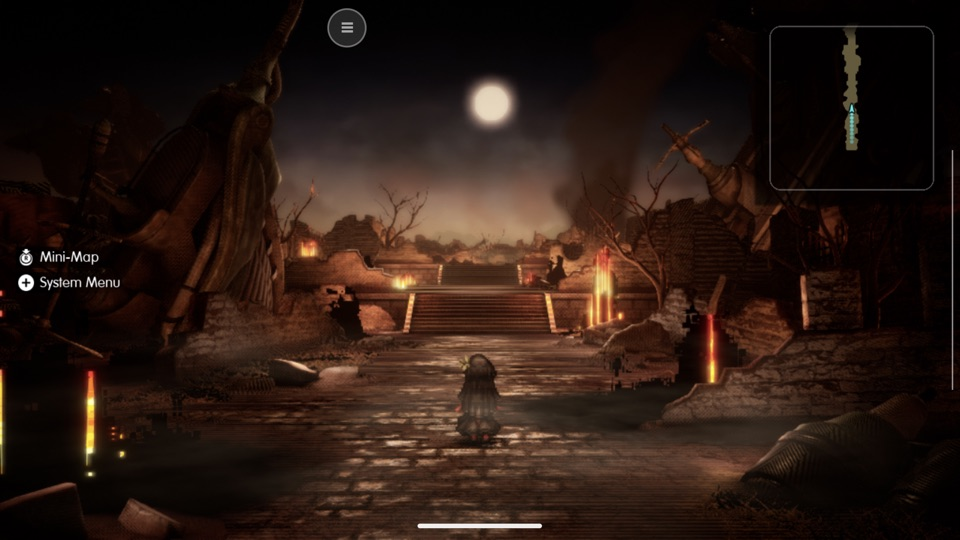
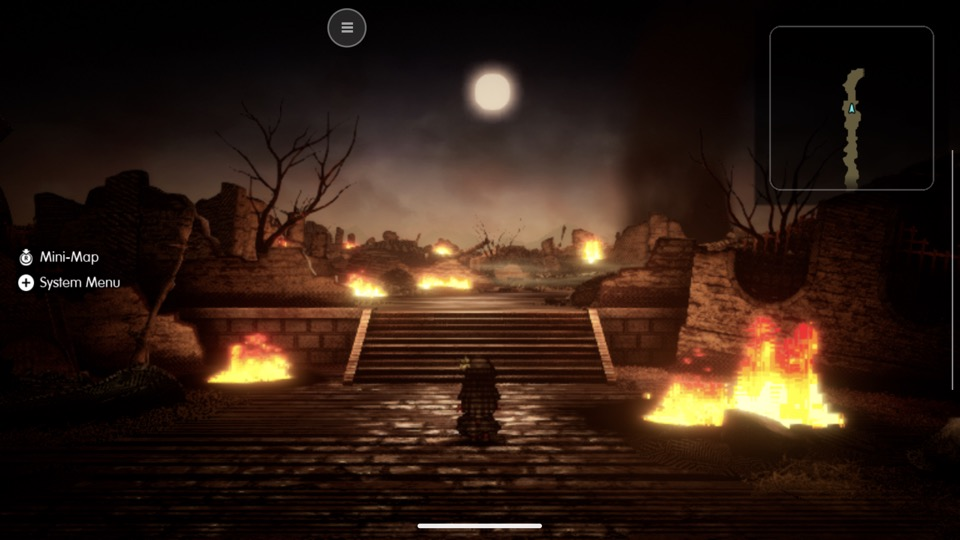
Game Status catches up with main: Ocarina of Time's water patches resolved, Mario Kart World's races on a Pixel 9 Pro XL, and newer captures for four games
Some rows and captures had fallen behind what merged on 2026-11-11, so a player reading the table saw fixed faults as open and pictures of states that no longer hold.

- Ocarina of Time's row still listed "pale flat water patches on Adreno" as open. #315 found them to be undrawn terrain tiles and fixed them, and the game's note already moved the item to "Found on this game".
- Mario Kart World's row didn't name the Pixel 9 Pro XL, which its note covers since #298: with the virtual pool fix the Pixel ran 4 races of 4 out, at about 10 fps (q209's measurement), and the S25 Edge two more.
- Let's Go's row didn't mention the dark band over Viridian Forest's lower third on the Z Flip 7, which its note records as open.
- Captures: Final Fantasy Resonance's showed the first field with its flames missing at 42 fps; the new one (Odin 2, chain 6, q199) has them drawn. Animal Crossing's was a scripted run from a downloaded save; the new one is the welcome party from the hand-played new game (Odin 2, q206). Ocarina of Time's was the title with its movie black; the new one is Kokiri Forest on the Galaxy Z Fold 8 with the terrain fix (q216). Mario Kart World's was the Odin 2's world map from 2026-11-08; the new one is a race at Mario Bros. Circuit on the OnePlus Pad 3 with Qualcomm's driver, the row's main result. All four are 960x540 JPEGs like the others, cropped to the game's picture.
[…]

diff --git a/scripts/build_android_from_nsp.py b/scripts/build_android_from_nsp.py
@@ -59,17 +59,19 @@ BUILD_TOOLS, PLATFORM = '36.0.0', 'android-35'   # build_apk.py's defaults
 # one needs no other build. Built beside the loader, and kept with it in the library
 VK_DRIVER_LIBS = ('libadrenotools.so', 'libhook_impl.so', 'libmain_hook.so')
 # Games played on an Android device: the rows of the README's Game Status whose tier is Playable – minor issues, Playable – major issues or In-game from a run
-# on current code, with a profile, kept in step with that table. The desktop app shows the others as not played there yet. Left out: In-game, blocked (Frostpunk,
-# Ocarina of Time) and Menus (Mario Kart World), and the rows from before the nxnative merge (†: Super Mario Bros. Wonder, Super Mario 3D World + Bowser's Fury),
-# which current code hasn't run
+# on current code, with a profile, kept in step with that table. The desktop app shows the others as not played there yet. Left out: In-game, blocked (Mario Kart
+# World, Ocarina of Time), and the rows from before the nxnative merge (†: Super Mario Bros. Wonder, Super Mario 3D World + Bowser's Fury), which current code
+# hasn't run
 ANDROID_TESTED = {
     '01008DB008C2C000',   # Pokémon Shield (Playable – minor issues through Route 2 into Professor Magnolia's house)
-    '010027400CDC6000',   # Divinity: Original Sin 2 - Definitive Edition (Playable – major issues through the first combat)
+    '010027400CDC6000',   # Divinity: Original Sin 2 - Definitive Edition (Playable – minor issues through the second fight below deck)
     '010003F003A34000',   # Pokémon: Let's Go, Pikachu! (Playable – minor issues through the rival's first battle)
     '0100000011D90000',   # Pokémon Brilliant Diamond (Playable – minor issues through Lake Verity's first battle)
     '0100DCD01525A000',   # Persona 3 Portable (Playable – minor issues through the first battle)
     '01006F8002326000',   # Animal Crossing: New Horizons (Playable – major issues through the first night)
     '0100000000010000',   # Super Mario Odyssey
+    '0100B1C0249B4000',   # Frostpunk (Playable – major issues through day 1 into the first night)
+    '0100152000022000',   # Mario Kart 8 Deluxe (Playable – minor issues through the first 50cc race)
     '01006A800016E000',   # Super Smash Bros. Ultimate
     '01006BB00C6F0000',   # The Legend of Zelda: Link's Awakening
     '01002DA013484000',   # The Legend of Zelda: Skyward Sword HD

diff --git a/README.md b/README.md
@@ -141,7 +141,7 @@ phone, DroidPlay's on-screen controls are drawn over the game.
 <table>
 <tr>
 <td align="center" valign="top" width="33%"><img src="docs/images/android/pokemon-brilliant-diamond-odin-2.jpg" width="256" alt="Pokémon Brilliant Diamond in Eterna City on an Ayn Odin 2"><br><small><b><a href="dm/games/0100000011D90000/README.md">Pokémon Brilliant Diamond</a></b><br>Ayn Odin 2: Eterna City, 60 fps</small></td>
-<td align="center" valign="top" width="33%"><img src="docs/images/android/animal-crossing-new-horizons-odin-2.jpg" width="256" alt="Animal Crossing: New Horizons outside the player's house on an Ayn Odin 2"><br><small><b><a href="dm/games/01006F8002326000/README.md">Animal Crossing: New Horizons</a></b><br>Ayn Odin 2: outside the player's house, 30 fps</small></td>
+<td align="center" valign="top" width="33%"><img src="docs/images/android/animal-crossing-new-horizons-odin-2.jpg" width="256" alt="Animal Crossing: New Horizons on an Ayn Odin 2: the first evening's welcome party, the player at the campfire with Tom Nook, Timmy, Tommy and two islanders"><br><small><b><a href="dm/games/01006F8002326000/README.md">Animal Crossing: New Horizons</a></b><br>Ayn Odin 2: the welcome party on the first evening, 30 fps</small></td>
 <td align="center" valign="top" width="33%"><img src="docs/images/android/super-mario-odyssey-retroid-pocket-5.jpg" width="256" alt="Super Mario Odyssey's opening cutscene on a Retroid Pocket 5"><br><small><b><a href="dm/games/0100000000010000/README.md">Super Mario Odyssey</a></b><br>Retroid Pocket 5: the opening cutscene, 59 fps</small></td>
 </tr>
 <tr>
@@ -150,17 +150,17 @@ phone, DroidPlay's on-screen controls are drawn over the game.
 <td align="center" valign="top" width="33%"><img src="docs/images/android/zelda-skyward-sword-hd-odin-2.jpg" width="256" alt="The Legend of Zelda: Skyward Sword HD in Skyloft's plaza on an Ayn Odin 2, Link at the bird statue"><br><small><b><a href="dm/games/01002DA013484000/README.md">The Legend of Zelda: Skyward Sword HD</a></b><br>Ayn Odin 2: Skyloft at 60 fps</small></td>
 </tr>
 <tr>
-<td align="center" valign="top" width="33%"><img src="docs/images/android/final-fantasy-resonance-odin-2.jpg" width="256" alt="Final Fantasy Resonance's first field at night on an Ayn Odin 2, its flames missing"><br><small><b><a href="dm/games/0100606026F12000/README.md">Final Fantasy Resonance</a></b><br>Ayn Odin 2: the first field, 42 fps</small></td>
+<td align="center" valign="top" width="33%"><img src="docs/images/android/final-fantasy-resonance-odin-2.jpg" width="256" alt="Final Fantasy Resonance's first field at night on an Ayn Odin 2, its flames drawn along the road"><br><small><b><a href="dm/games/0100606026F12000/README.md">Final Fantasy Resonance</a></b><br>Ayn Odin 2: the first field, its flames drawn, 52 fps</small></td>
 <td align="center" valign="top" width="33%"><img src="docs/images/android/pokemon-shield-galaxy-s25-edge.jpg" width="256" alt="Pokémon Shield on a Samsung Galaxy S25 Edge: the player at the front door of the house in Postwick, under the on-screen controls"><br><small><b><a href="dm/games/01008DB008C2C000/README.md">Pokémon Shield</a></b><br>Samsung Galaxy S25 Edge: outside the player's house in Postwick, 30 fps</small></td>
 <td align="center" valign="top" width="33%"><img src="docs/images/android/frostpunk-galaxy-s25-edge.jpg" width="256" alt="Frostpunk's city on a Samsung Galaxy S25 Edge: the Generator in the crater and the wreckage beside it, on the snow"><br><small><b><a href="dm/games/0100B1C0249B4000/README.md">Frostpunk</a></b><br>Samsung Galaxy S25 Edge: the city, 30 fps</small></td>
 </tr>
 <tr>
 <td align="center" valign="top" width="33%"><img src="docs/images/android/divinity-original-sin-2-odin-2.jpg" width="256" alt="Divinity: Original Sin 2 on an Ayn Odin 2: the player's character in the Merryweather's hold"><br><small><b><a href="dm/games/010027400CDC6000/README.md">Divinity: Original Sin 2 - Definitive Edition</a></b><br>Ayn Odin 2: the Merryweather's hold, 30 fps</small></td>
 <td align="center" valign="top" width="33%"><img src="docs/images/android/zelda-breath-of-the-wild-odin-2.jpg" width="256" alt="The Legend of Zelda: Breath of the Wild on an Ayn Odin 2: Link in the Shrine of Resurrection"><br><small><b><a href="dm/games/01007EF00011E000/README.md">The Legend of Zelda: Breath of the Wild</a></b><br>Ayn Odin 2: the Shrine of Resurrection, 30 fps</small></td>
-<td align="center" valign="top" width="33%"><img src="docs/images/android/mario-kart-world-odin-2.jpg" width="256" alt="Mario Kart World's world map on an Ayn Odin 2"><br><small><b><a href="dm/games/0400C3F00006E000/README.md">Mario Kart World</a></b><br>Ayn Odin 2: the world map, about 55 fps</small></td>
+<td align="center" valign="top" width="33%"><img src="docs/images/android/mario-kart-world-oneplus-pad-3.jpg" width="256" alt="Mario Kart World on a OnePlus Pad 3: Mario in seventh place on the first lap at Mario Bros. Circuit, the track's surface untextured, under the on-screen controls"><br><small><b><a href="dm/games/0400C3F00006E000/README.md">Mario Kart World</a></b><br>OnePlus Pad 3: a race at Mario Bros. Circuit, 15–21 fps</small></td>
 </tr>
 <tr>
-<td align="center" valign="top" width="33%"><img src="docs/images/android/zelda-ocarina-of-time-galaxy-z-fold-8.jpg" width="256" alt="The Legend of Zelda: Ocarina of Time's title screen on a Samsung Galaxy Z Fold 8's cover display, the movie behind the logo black"><br><small><b><a href="dm/games/0400486024DEC000/README.md">The Legend of Zelda: Ocarina of Time</a></b><br>Samsung Galaxy Z Fold 8: the title, about 30 fps</small></td>
+<td align="center" valign="top" width="33%"><img src="docs/images/android/zelda-ocarina-of-time-galaxy-z-fold-8.jpg" width="256" alt="The Legend of Zelda: Ocarina of Time on a Samsung Galaxy Z Fold 8: young Link on the path through Kokiri Forest with Navi, under the on-screen controls"><br><small><b><a href="dm/games/0400486024DEC000/README.md">The Legend of Zelda: Ocarina of Time</a></b><br>Samsung Galaxy Z Fold 8: Kokiri Forest, 15–17 fps</small></td>
 <td align="center" valign="top" width="33%"><img src="docs/images/android/mario-kart-8-deluxe-pixel-9-pro-xl.jpg" width="256" alt="Mario Kart 8 Deluxe on a Google Pixel 9 Pro XL: Mario in first place on the second lap of Mario Kart Stadium, under the on-screen controls"><br><small><b><a href="dm/games/0100152000022000/README.md">Mario Kart 8 Deluxe</a></b><br>Google Pixel 9 Pro XL: Mario Kart Stadium, 60 fps</small></td>
 <td></td>
 </tr>
@@ -196,7 +196,7 @@ and what has not been tried.
 | Final Fantasy Resonance 1.0.1 | Ayn Odin 2, OnePlus Pad 3, Samsung Galaxy S25 Edge, Google Pixel 9 Pro XL | Playable – major issues through a new game's opening, the first field and its first three battles: on the Ayn Odin 2, played by hand from a new game, the field's flames drawn since `ANDROID_CHAIN` 6, at a median 52 fps on chain 6 (43–60 in 30 s windows), with sound, and the autosave loaded by Continue after a cold start ([its note](dm/games/0100606026F12000/README.md#android-a-new-game-by-hand-on-the-odin-2)). Issues: the frame rate, under 95% of the 60 target; the flames nearest the camera drawn as coarse blocks, a herringbone stripe on rock textures and faint horizontal lines, not yet compared with the Mac. Scripted runs: about 42 fps in the field on the Odin 2 and the Pad 3, 30–33 on the S25 Edge (10–16 fps before 0.6.0), and the opening at 30 fps on the Pixel 9 Pro XL. Not tried on the Retroid Pocket 5 |
 | Pokémon Shield 1.3.2 | Retroid Pocket 5, Samsung Galaxy S25 Edge, Google Pixel 9 Pro XL, Samsung Galaxy Z Flip 7 | Playable – minor issues through Route 2 into Professor Magnolia's house: 30 fps (as on the Switch) on all four. On the Z Flip 7 (Xclipse), played by hand from a new game through the opening, Route 1, Wedgehurst and the starters to Hop's battle, won, then into the Slumbering Weald with a wild battle there; on the Retroid Pocket 5, as far as Hop's battle, won, and from the Z Flip 7's Weald save through the Weald's event (the battle in the fog, Leon's rescue) back to Postwick and Mum, then from there through Wedgehurst (the Pokédex), Route 2 and its first trainers into Professor Magnolia's house; on the S25 Edge and the Pixel 9 Pro XL (Mali), into Postwick, where Hop meets the player outside the house. Sound, saves made on the phone and Continue work on all four. Issues: a first start's pipeline builds (one 6.4 s frame on the Z Flip 7 and one of 5.0 s on the Retroid Pocket 5; 118 and 178 ms at most on the next start), and frames of 1.4–1.7 s as the lab and Route 2 built theirs on a first visit; nothing else seen. Not played as far as the battle in Magnolia's garden or the Wild Area; not tried on the other devices |
 | Frostpunk 1.0.1 | Samsung Galaxy S25 Edge, Samsung Galaxy Z Flip 7, Moto Razr Plus 2023 | Playable – major issues through day 1 into the first night: 30 fps (29.1–29.7 in every 30 s window outside loads) on the S25 Edge (Adreno) and the Galaxy Z Flip 7 (Xclipse); on the S25 Edge, played by hand over adb from a new game of A New Home: coal, wood and steel gathered, three tents built and a cookhouse placed, the Generator started, the first workday into the night, with sound (an audio dump: sound throughout), a save made on the phone and Resume story loading it after a cold start. The Generator, the buildings and the props draw through raw global memory, which its profile turns on. Issues: the stretch ends long before a scenario's end; the S25's grabs of the opening view looked darker than the Mac's capture, not compared under the same capture. On the Galaxy Z Flip 7 (Xclipse), the same stretch by hand from a new game through the first night, saved and resumed after a cold start, at 29.0–29.7 fps in the city's 30 s windows, with sound (an audio dump). On the Moto Razr Plus 2023 (Adreno 730, Qualcomm's driver V@0615.98), In-game, blocked: the title, the menu, the intro and the city at 29 fps with sound, but the driver's compiler refuses every pipeline of the shaders that read raw global memory (`OpConvertUToPtr not supported`), so the Generator, the buildings and the props stay invisible. With a Turnip driver there (Mr. Purple's T30, a third-party Mesa build loaded through `DM_VK_DRIVER`), they draw, at about 29.4 fps and 360 MiB more memory; not played past the tutorial's first pop-up |
-| Pokémon: Let's Go, Pikachu! 1.0.0 | Samsung Galaxy Z Fold 8, Google Pixel 9 Pro XL, Samsung Galaxy Z Flip 7 | Playable – minor issues through Viridian City and the rival's first battle (Oak's Parcel): 30 fps (as on the Switch) on all three. On the Z Fold 8, played by hand from a save made on the phone in Pallet Town through Professor Oak's scene, getting Pikachu, his lab and the Pokédex, to two wild catches on Route 1 made with the buttons (no motion needed); the opening into Pallet Town was a scripted run there. On the Pixel 9 Pro XL (Mali), played by hand from a new game through the opening and the rival's visit into Pallet Town, and a wild Pidgey caught on Route 1 from the Z Fold 8's save. Then, from that save, by hand through Route 1 (more catches) to Viridian City, the Poké Mart clerk's Oak's Parcel back to Professor Oak, and the rival's first battle in the lab (his Eevee, won with Thunder Shock), at 29.6–30.0 fps in every minute of a 35-minute launch, with a save made after it that Continue loads after a cold start. On the Z Flip 7 (Xclipse), played by hand from a new game through the opening into the bedroom, then from the Pixel's save after the battle through Route 1 (a trainer battle won), Viridian City and Route 2 into Viridian Forest, with a save there that Continue loads after a cold start. Sound (confirmed by audio dumps), a save made on the phone and Continue work on all three. Issues: none seen up to the rival's battle. On the Z Flip 7, the walk past Viridian Forest's first Bug Catcher ran at 21–28 fps for 40–90 s each time (the game's own frame work; not compared with the Mac), which keeps the forest out of the minor-issues stretch. Not tried: the Pokémon Center and Mart inside, Viridian Forest's trainers and Pewter City, aiming with motion, the other devices |
+| Pokémon: Let's Go, Pikachu! 1.0.0 | Samsung Galaxy Z Fold 8, Google Pixel 9 Pro XL, Samsung Galaxy Z Flip 7 | Playable – minor issues through Viridian City and the rival's first battle (Oak's Parcel): 30 fps (as on the Switch) on all three. On the Z Fold 8, played by hand from a save made on the phone in Pallet Town through Professor Oak's scene, getting Pikachu, his lab and the Pokédex, to two wild catches on Route 1 made with the buttons (no motion needed); the opening into Pallet Town was a scripted run there. On the Pixel 9 Pro XL (Mali), played by hand from a new game through the opening and the rival's visit into Pallet Town, and a wild Pidgey caught on Route 1 from the Z Fold 8's save. Then, from that save, by hand through Route 1 (more catches) to Viridian City, the Poké Mart clerk's Oak's Parcel back to Professor Oak, and the rival's first battle in the lab (his Eevee, won with Thunder Shock), at 29.6–30.0 fps in every minute of a 35-minute launch, with a save made after it that Continue loads after a cold start. On the Z Flip 7 (Xclipse), played by hand from a new game through the opening into the bedroom, then from the Pixel's save after the battle through Route 1 (a trainer battle won), Viridian City and Route 2 into Viridian Forest, with a save there that Continue loads after a cold start. Sound (confirmed by audio dumps), a save made on the phone and Continue work on all three. Issues: none seen up to the rival's battle. On the Z Flip 7, the walk past Viridian Forest's first Bug Catcher ran at 21–28 fps for 40–90 s each time (the game's own frame work; not compared with the Mac), which keeps the forest out of the minor-issues stretch; a later run there showed a flat dark band over the lower third of the forest's picture, open and not yet compared with another phone or the Mac ([its note](dm/games/010003F003A34000/README.md#android)). Not tried: the Pokémon Center and Mart inside, Viridian Forest's trainers and Pewter City, aiming with motion, the other devices |
 | Divinity: Original Sin 2 - Definitive Edition 1.0.3.1 | Ayn Odin 2, OnePlus Pad 3, Google Pixel 9 Pro XL | Playable – minor issues through the second fight below deck (before the locked Greasy Door): the game's 30 fps from a new game through character creation and the opening cinematic into the Merryweather's hold, then by hand to the cabin deck, and on the Odin 2 through the burning hold to the top deck's first fight (two Voidwoken, won), the lifeboat and its dialogue, and below deck a second fight (Void Hatchlings, won with Lohse and Beast), with sound, Quick Saves dated by the host's clock and Continue loading the latest after a cold start. Every window's median frame time 33.1–33.5 ms; four alpha-test red lines in the log, nothing wrong on screen. On the Pixel 9 Pro XL (Mali) the top deck's first fight, won, at 30 fps too, with sound and Continue after a cold start; its GPU takes about 26 ms of the 33 ms frame ([its note](dm/games/010027400CDC6000/README.md#on-the-pixel-9-pro-xl)). On the Pad 3 it runs at 40 or 60 fps with a setting, the game moving by real time at each, and held 60 for 25 minutes ([its note](dm/games/010027400CDC6000/README.md#frame-rate)). Not played as far as Fort Joy |
 | The Legend of Zelda: Breath of the Wild 1.9.0 | Ayn Odin 2, OnePlus Pad 3, Samsung Galaxy S25 Edge, Samsung Galaxy Z Fold 8 | Playable – major issues through the Shrine of Resurrection onto the Great Plateau (no combat yet): 30 fps (its Android target) on the Odin 2, played by hand from a new game: waking in the Shrine, taking the Sheikah Slate, opening its doors and climbing out, then the cutscene over Hyrule and the first minutes on the plateau, with sound, an autosave made on the phone and Continue after a cold start. The Old Man not reached ([its note](dm/games/01007EF00011E000/README.md#android)). Issues: the stretch ends before the first combat; the frame where Link died from a fall had red smears on nearby rocks, not compared with the Mac. The Shrine from a save made on the Mac: 30 fps on the Pad 3 and the S25 Edge with its Android defaults (descriptor sets bound again, the command recorder, a 30 fps target); 24 on the Galaxy Z Fold 8, whose GPU takes 30 ms a frame. On the Pad 3 it lost the GPU at its first frame in the field, and on both Adreno 830s it drew the Shrine dark: both are fixed, checked on the S25 Edge and, by hand from a new game with main's 0.7.5 build, on the Pad 3: the Shrine lit, about 5.5 minutes on the plateau without losing the GPU at 30 fps, and a save loaded by Continue after a cold start. 60 fps needs the replay's CPU time and the GPU's to come down |
 | Persona 3 Portable 1.0.2 | Samsung Galaxy S25 Edge, Samsung Galaxy Z Flip 7 | Playable – minor issues through the first battle (April 9's rooftop): 60 fps (as on the Switch) on both, played by hand from a new game through the opening, the dorm and the first school days with their point-and-click exploration, to the night of April 9 and its first battle, won with the buttons, with sound, a save made at the dorm's Sign-In Sheet and Continue working. On the S25 Edge in console mode, on the Z Flip 7 (Xclipse) in Android's default handheld mode, which works on both ([its note](dm/games/0100DCD01525A000/README.md#android)). Issues: none seen on the S25 Edge; on the Z Flip 7, one frame of the opening movie covered in a fine dot grid, not compared with the Mac. Not played past the first battle (Tartarus); not tried on the other devices |
@@ -206,8 +206,8 @@ and what has not been tried.
 | Super Mario 3D World + Bowser's Fury 1.2.2 | POCO X5 5G | Menus: Bowser's Fury starts and is drawn with correct colours; how far it was played isn't recorded, and one launch stopped at a black loading screen † |
 | Danganronpa V3 Anniversary Edition 1.0.2 | POCO X5 5G | Menus: boots, plays its opening movie and draws its picture, from a provisional profile; not played through † |
 | The Binding of Isaac: Afterbirth+ 1.7.9b | POCO X5 5G | Boots: runs from a provisional profile with its Repentance DLC, its shaders compiled at run time and captured on the phone; how far it got isn't recorded † |
-| **Mario Kart World 1.8.0 (Switch 2)** | OnePlus Pad 3, Galaxy S25 Edge with the Turnip T30 driver, Ayn Odin 2 | **In-game, blocked** (2026-11-11, on the OnePlus Pad 3 with Qualcomm's own driver): the title, the menus by adb input, and a Mushroom Cup race at Mario Bros. Circuit, driven and steered, at 15–21 fps in the race (frames of 47–65 ms; the replay's CPU 36–52 ms, the GPU 20–28 ms), the menus at about 30 fps; the track untextured (sparse textures), no roadside bushes (no mesh shaders). The Galaxy S25 Edge reached the same race with Mr. Purple's Turnip T30 through `DM_VK_DRIVER`. 168 of its compute shaders declare 48 KB of shared memory, past the 32 KB that Qualcomm's driver takes: they now take it from a storage buffer there; without that the GPU is lost about 10 s after the title. The Odin 2 (2026-11-08): the world map at about 55 fps, the attract drive at about 3.4 fps. Open: memory (0.5–0.7 GB left on the 12 GB Pad 3 in a race; faster runs with raw global memory were killed), sparse textures, virtual memory pools, no mesh shaders |
-| **The Legend of Zelda: Ocarina of Time v131072 (Switch 2)** | Samsung Galaxy Z Fold 8, Samsung Galaxy S25 Edge, Samsung Galaxy Z Flip 7, Google Pixel 9 Pro XL, Ayn Odin 2, Moto Razr Plus 2023 | **In-game, blocked:** under half the target frame rate (60 fps). From a Mac save, Kokiri Forest, Saria's scene and the Sacred Grove's Mad Scrub fight draw lit on the Adreno 830 and 840 with no kill (Galaxy S25 Edge 3 runs of 3, Galaxy Z Fold 8 5 launches), at 13–18 fps: on the Fold a median of 15–17 fps in Kokiri Forest and Saria's scene, about 20 in the Grove. The Galaxy Z Flip 7 (Xclipse 950) draws it lit at about 12 fps, 8.25 GB at most; the Pixel 9 Pro XL (Mali) lit at about 9 fps. On older Qualcomm drivers for the Adreno 7xx (the Odin 2's 740 at V@0676, the Razr's 730 at V@0615) the characters are dark: the driver rejects the pointer conversion (`OpConvertUToPtr`) raw global memory uses; the 740 with Turnip T30 draws them lit at about 9 fps, and pointer-free raw global memory is in progress (#286). Open: the frame rate (the CPU's submission, about 20 µs a draw), the mesh-shaded foliage left out (no mesh stage on Vulkan yet), pale flat water patches on Adreno, and a stall of about 10 s at the first start while the pipelines build |
+| **Mario Kart World 1.8.0 (Switch 2)** | OnePlus Pad 3, Galaxy S25 Edge with the Turnip T30 driver, Google Pixel 9 Pro XL, Ayn Odin 2 | **In-game, blocked** (2026-11-11, on the OnePlus Pad 3 with Qualcomm's own driver): the title, the menus by adb input, and a Mushroom Cup race at Mario Bros. Circuit, driven and steered, at 15–21 fps in the race (frames of 47–65 ms; the replay's CPU 36–52 ms, the GPU 20–28 ms), the menus at about 30 fps; the track untextured (sparse textures), no roadside bushes (no mesh shaders). The Galaxy S25 Edge reached the same race with Mr. Purple's Turnip T30 through `DM_VK_DRIVER`. 168 of its compute shaders declare 48 KB of shared memory, past the 32 KB that Qualcomm's driver takes: they now take it from a storage buffer there; without that the GPU is lost about 10 s after the title. The faults now and then in the menus and races (in Qualcomm's driver on the Pad 3, in the replay on the S25 Edge, in Mali's driver on a Google Pixel 9 Pro XL) came from holes that a refused virtual pool mapping left in the pool's reservation, fixed by [#298](https://github.com/enjoyerofslop/droidplay-core/pull/298): with it, the Pixel 9 Pro XL went through the menus and ran a race out in 4 runs of 4 (all 4 failed before), at about 10 fps in the race (frames of 97–99 ms, the GPU 45 ms), and the S25 Edge ran two more races without a fault. The Odin 2 (2026-11-08): the world map at about 55 fps, the attract drive at about 3.4 fps. Open: memory (0.5–0.7 GB left on the 12 GB Pad 3 in a race; faster runs with raw global memory were killed), sparse textures, virtual memory pools, no mesh shaders |
+| **The Legend of Zelda: Ocarina of Time v131072 (Switch 2)** | Samsung Galaxy Z Fold 8, Samsung Galaxy S25 Edge, Samsung Galaxy Z Flip 7, Google Pixel 9 Pro XL, Ayn Odin 2, Moto Razr Plus 2023 | **In-game, blocked:** under half the target frame rate (60 fps). From a Mac save, Kokiri Forest, Saria's scene and the Sacred Grove's Mad Scrub fight draw lit on the Adreno 830 and 840 with no kill (Galaxy S25 Edge 3 runs of 3, Galaxy Z Fold 8 5 launches), at 13–18 fps: on the Fold a median of 15–17 fps in Kokiri Forest and Saria's scene, about 20 in the Grove. The Galaxy Z Flip 7 (Xclipse 950) draws it lit at about 12 fps, 8.25 GB at most; the Pixel 9 Pro XL (Mali) lit at about 9 fps. On older Qualcomm drivers for the Adreno 7xx (the Odin 2's 740 at V@0676, the Razr's 730 at V@0615) the characters are dark: the driver rejects the pointer conversion (`OpConvertUToPtr`) raw global memory uses; the 740 with Turnip T30 draws them lit at about 9 fps, and pointer-free raw global memory is in progress (#286). The pale, flat water patches in Kokiri Forest were terrain tiles left undrawn, whose maps the game fills from the CPU before it makes their textures: they draw since [#315](https://github.com/enjoyerofslop/droidplay-core/pull/315) (checked on the Galaxy Z Fold 8). Open: the frame rate (the CPU's submission, about 20 µs a draw), the mesh-shaded foliage left out (no mesh stage on Vulkan yet), and a stall of about 10 s at the first start while the pipelines build |
 
 † Tested before DroidPlay Core merged nxnative's `main` (2026-11-08); not run since. "Not run since" with a date marks a later run on code `main` has moved on
 from, and "contributor report" a run on a contributor's own device.
